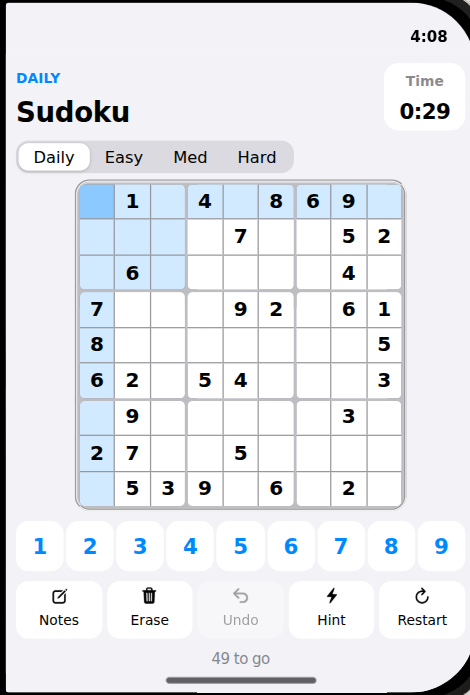
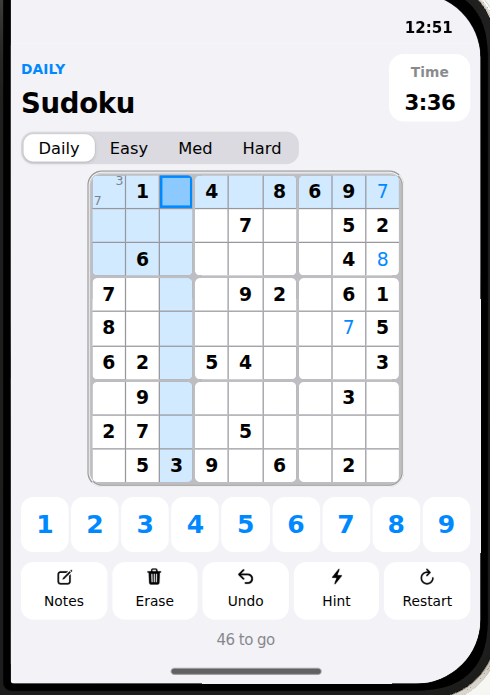
sudoku: sharpen board hierarchy, motion and destructive confirm
- Board states: selected cell gets an inset link ring plus peer wash,
  given/entered/conflict colours stay token-based, notes digits scale
  with the cell and stay legible on cover
- Motion: wrong entries take one small shake, placed digits pop in,
  the solved card enters with a transform-only scale rise and a delayed
  badge (no opacity over glass), and exits through usePresence. Every
  keyframe is disabled under prefers-reduced-motion while colour
  feedback stays immediate
- Controls: pad keys hit 44 pt on cover, pencil mode tints the whole
  pad so the next-tap semantics are obvious, tools group press +
  colour transitions, restart/new confirm through a two-tap armed
  'Sure?' state that any real move disarms
- Fix: deal() only resumes live slots, so the solved card's 'New game'
  and the New tool actually deal a fresh puzzle instead of reviving
  the finished board
- Layout: home-bar clearance on both displays, refreshed submission
  screenshots

diff --git a/community-apps/sudoku/main.tsx b/community-apps/sudoku/main.tsx
@@ -1,6 +1,6 @@
 import { os } from '@doan-labs/duo-sdk'
 import { useKV } from '@doan-labs/duo-sdk/react.ts'
-import { Button, Segmented, Sym, type SymProps, useDisplay, useWide } from '@doan-labs/duo-uikit'
+import { Button, Segmented, Sym, type SymProps, useDisplay, usePresence, useWide } from '@doan-labs/duo-uikit'
 import { dark, light } from '@doan-labs/duo-uikit/styles.ts'
 import * as stylex from '@stylexjs/stylex'
 import { useCallback, useEffect, useMemo, useRef, useState } from 'react'
@@ -70,6 +70,10 @@ function Sudoku() {
   const [darkMode, setDarkMode] = useState(false)
   const [note, setNote] = useState<string | null>(null)
   const [now, setNow] = useState(() => Date.now())
+  // Armed is the two-tap confirmation for destructive tools: the first tap
+  // turns the button red and asks again; the second runs it.
+  const [armed, setArmed] = useState<string | null>(null)
+  const armTimer = useRef<ReturnType<typeof setTimeout> | null>(null)
 
   const lastSeen = useRef<string | null>(null)
   const storageLanded = useRef(false)
@@ -89,16 +93,16 @@ function Sudoku() {
     const top = wide ? 16 : 8
     const header = wide ? 58 : 78 // the cover keeps its own mode row under the title
     const status = wide ? 22 : 18
-    const bottom = wide ? 20 : 16
+    const bottom = 24 // the home bar owns the bottom edge on both displays
     const gaps = 24
     const railW = wide ? 324 : 0 // rail width plus the stage gap
-    const railH = wide ? 0 : 102 // cover pad row plus tools row plus stage gap
+    const railH = wide ? 0 : 106 // cover pad row plus tools row plus stage gap
     const w = view.width || (wide ? 778 : 387)
     const h = view.height || (wide ? 503 : 563)
     const free = h - top - header - status - bottom - gaps - railH
     const board = Math.max(190, Math.floor(Math.min(free, w - padX - railW)))
     const cell = board / 9
-    return { board, digit: Math.round(cell * 0.55), note: Math.max(8, Math.round(cell * 0.27)) }
+    return { board, digit: Math.round(cell * 0.55), note: Math.max(10, Math.round(cell * 0.32)) }
   }, [view.width, view.height, wide])
 
   // Why storage seeds once: the durable slots are the record of earlier games,
@@ -168,6 +172,9 @@ function Sudoku() {
     setSlots(slotsNext)
     liveRef.current.set(JSON.stringify(wire))
     savedRef.current.set(packSaved(slotsNext, statsNext, wire.mode))
+    // Any real move disarms a pending destructive confirm.
+    if (armTimer.current) window.clearTimeout(armTimer.current)
+    setArmed(null)
   }, [])
 
   /**
@@ -180,7 +187,9 @@ function Sudoku() {
       const cur = latest.current
       const stash = cur.game ? { ...cur.slots, [cur.game.mode]: cur.game } : { ...cur.slots }
       const slot = mode === 'daily' ? (stash.daily?.day === DAY ? stash.daily : undefined) : stash[mode]
-      if (slot) {
+      // Only a live slot is worth resuming: a finished board in the slot would
+      // just reappear already solved, so it falls through to a fresh deal.
+      if (slot && !slot.endedAt) {
         setSlots(stash)
         commit(slot)
       } else {
@@ -223,6 +232,10 @@ function Sudoku() {
     [commit]
   )
 
+  // Keeps the solved card mounted through its short exit animation. The hook
+  // stays above the loading early-return like every other hook.
+  const solvedCard = usePresence(!!game && isSolved(game), 200)
+
   // Why keys move the selection instead of typing blind: hardware arrow keys
   // navigate the board, digits play or jot against the selected cell.
   const pressRef = useRef(press)
@@ -255,11 +268,9 @@ function Sudoku() {
 
   if (!game) {
     return (
-      <main
-        ref={rootRef}
-        {...stylex.props(darkMode ? dark : light, styles.root, !wide && styles.rootCover)}
-        aria-busy="true"
-      />
+      <main ref={rootRef} {...stylex.props(darkMode ? dark : light, styles.root)} aria-busy="true">
+        <div {...stylex.props(styles.loading)}>Sudoku</div>
+      </main>
     )
   }
 
@@ -290,9 +301,24 @@ function Sudoku() {
       ? 'Loading saved progress...'
       : saved.status === 'error'
         ? 'Progress may not save offline'
-        : solved
-          ? `Solved in ${formatTime(elapsedMs(game, now))}${game.hints ? `, ${game.hints} hints` : ''}`
-          : `${left} to go${game.pencil ? ' - pencil on' : ''}${clashes.size ? ' - conflict' : ''}`
+        : armed
+          ? 'Tap again to confirm'
+          : solved
+            ? `Solved in ${formatTime(elapsedMs(game, now))}${game.hints ? `, ${game.hints} hints` : ''}`
+            : `${left} to go${game.pencil ? ' - pencil on' : ''}${clashes.size ? ' - conflict' : ''}`
+
+  /** First tap arms a destructive tool; the second within a few seconds runs it. */
+  const arm = (key: string, run: () => void) => {
+    if (armed === key) {
+      if (armTimer.current) window.clearTimeout(armTimer.current)
+      setArmed(null)
+      run()
+      return
+    }
+    if (armTimer.current) window.clearTimeout(armTimer.current)
+    setArmed(key)
+    armTimer.current = window.setTimeout(() => setArmed(null), 3000)
+  }
 
   type Tool = {
     key: string
@@ -301,17 +327,34 @@ function Sudoku() {
     disabled: boolean
     on: () => void
     active?: boolean
+    danger?: boolean
   }
   const tools: Tool[] = [
     { key: 'notes', label: 'Notes', icon: 'compose', disabled: solved, on: () => press('PENCIL'), active: game.pencil },
     { key: 'erase', label: 'Erase', icon: 'trash', disabled: solved, on: () => press('ERASE') },
     { key: 'undo', label: 'Undo', icon: 'undo', disabled: !game.undo.length, on: () => press('UNDO') },
     { key: 'hint', label: 'Hint', icon: 'bolt', disabled: solved, on: hint },
-    { key: 'restart', label: 'Restart', icon: 'reload', disabled: false, on: () => commit(restart(game)) },
+    {
+      key: 'restart',
+      label: 'Restart',
+      icon: 'reload',
+      disabled: false,
+      danger: true,
+      on: () => arm('restart', () => commit(restart(game)))
+    },
     // Daily is one fixed puzzle a day: "new" there is restart, so it drops out.
     ...(game.mode === 'daily'
       ? []
-      : [{ key: 'new', label: 'New', icon: 'plus' as const, disabled: false, on: () => deal(game.mode) }])
+      : [
+          {
+            key: 'new',
+            label: 'New',
+            icon: 'plus' as const,
+            disabled: false,
+            danger: true,
+            on: () => arm('new', () => commit(newGame(ME, game.mode), true))
+          }
+        ])
   ]
 
   return (
@@ -408,8 +451,8 @@ function Sudoku() {
               </div>
             ))}
           </fieldset>
-          {solved && (
-            <div {...stylex.props(styles.solvedCard)} role="status">
+          {solvedCard.mounted && (
+            <div {...stylex.props(styles.solvedCard, solvedCard.closing && styles.solvedCardOut)} role="status">
               <div {...stylex.props(styles.solvedInner)}>
                 <span {...stylex.props(styles.solvedBadge)}>
                   <Sym name="check" size={26} />
@@ -426,7 +469,7 @@ function Sudoku() {
                       Play an easy game
                     </Button>
                   ) : (
-                    <Button variant="tinted" onClick={() => deal(game.mode)}>
+                    <Button variant="tinted" onClick={() => commit(newGame(ME, game.mode), true)}>
                       New {MODE_LABEL[game.mode]} game
                     </Button>
                   )}
@@ -447,7 +490,7 @@ function Sudoku() {
                   disabled={!leftD || solved}
                   aria-label={`Digit ${d}${leftD ? `, ${leftD} left` : ', complete'}`}
                   onClick={() => padTap(d)}
-                  {...stylex.props(styles.padKey, !wide && styles.padKeyCover)}
+                  {...stylex.props(styles.padKey, !wide && styles.padKeyCover, game.pencil && styles.padKeyPencil)}
                 >
                   {d}
                   <span {...stylex.props(styles.padLeft, !wide && styles.padKeyCoverLeft)}>{leftD}</span>
@@ -461,14 +504,19 @@ function Sudoku() {
               <button
                 key={t.key}
                 type="button"
-                aria-label={t.label}
-                aria-pressed={t.key === 'notes' ? game.pencil : undefined}
+                aria-label={armed === t.key ? `${t.label}? Tap again to confirm` : t.label}
+                aria-pressed={t.key === 'notes' ? game.pencil : armed === t.key ? true : undefined}
                 disabled={t.disabled}
                 onClick={t.on}
-                {...stylex.props(styles.tool, wide ? styles.toolWide : styles.toolCover, t.active && styles.toolActive)}
+                {...stylex.props(
+                  styles.tool,
+                  wide ? styles.toolWide : styles.toolCover,
+                  t.active && styles.toolActive,
+                  armed === t.key && styles.toolArmed
+                )}
               >
                 <Sym name={t.icon} size={15} />
-                {t.label}
+                {armed === t.key ? 'Sure?' : t.label}
               </button>
             ))}
           </div>

diff --git a/community-apps/sudoku/styles.ts b/community-apps/sudoku/styles.ts
@@ -25,9 +25,29 @@ const cellIn = stylex.keyframes({
   to: { transform: 'scale(1)', opacity: 1 }
 })
 
-const bannerIn = stylex.keyframes({
-  from: { transform: 'translateY(-6px)', opacity: 0 },
-  to: { transform: 'translateY(0)', opacity: 1 }
+// Transform-only on the solved card: animating opacity over the glass blur
+// makes the card draw see-through while the animation runs (decision 18 trap).
+const cardIn = stylex.keyframes({
+  from: { transform: 'scale(.94) translateY(10px)' },
+  to: { transform: 'scale(1) translateY(0)' }
+})
+
+const cardOut = stylex.keyframes({
+  to: { transform: 'scale(.96) translateY(6px)', opacity: 0 }
+})
+
+const badgeIn = stylex.keyframes({
+  from: { transform: 'scale(.3)' },
+  to: { transform: 'scale(1)' }
+})
+
+// A wrong entry gets one small shake: feedback that the digit is illegal,
+// without looping or stealing focus.
+const cellShake = stylex.keyframes({
+  '0%, 100%': { transform: 'translateX(0)' },
+  '25%': { transform: 'translateX(-2px)' },
+  '50%': { transform: 'translateX(2px)' },
+  '75%': { transform: 'translateX(-1px)' }
 })
 
 export const styles = stylex.create({
@@ -37,7 +57,7 @@ export const styles = stylex.create({
     flexDirection: 'column',
     gap: space.md,
     paddingTop: space.lg,
-    paddingBottom: space.xl,
+    paddingBottom: space.xxl,
     paddingInline: space.xl,
     color: app.fg,
     backgroundColor: app.bg,
@@ -46,7 +66,8 @@ export const styles = stylex.create({
     overflow: 'hidden',
     userSelect: 'none'
   },
-  rootCover: { gap: space.sm, paddingTop: space.sm, paddingBottom: space.lg, paddingInline: space.sm },
+  // The home bar owns the bottom 22 px; cover content clears it entirely.
+  rootCover: { gap: space.sm, paddingTop: space.sm, paddingBottom: space.xxl, paddingInline: space.sm },
   header: { display: 'flex', alignItems: 'flex-end', justifyContent: 'space-between', gap: space.md, flexShrink: 0 },
   brand: { display: 'flex', flexDirection: 'column', gap: space.xxs },
   kicker: {
@@ -136,21 +157,26 @@ export const styles = stylex.create({
     fontFamily: fonts.rounded,
     fontWeight: weight.regular,
     cursor: 'pointer',
-    transitionProperty: 'background-color',
-    transitionDuration: motion.pressDuration,
+    // shared.select's rhythm: state colours ease instead of snapping.
+    transitionProperty: 'background-color, box-shadow',
+    transitionDuration: '.22s',
     transitionTimingFunction: easing.out
   },
   cellRelated: { backgroundColor: `color-mix(in srgb, ${app.surface} 82%, ${app.link})` },
   cellSame: { backgroundColor: `color-mix(in srgb, ${app.surface} 72%, ${app.link})` },
   cellSelected: {
     backgroundColor: `color-mix(in srgb, ${app.surface} 55%, ${app.link})`,
+    boxShadow: `inset 0 0 0 2px ${app.link}`,
     zIndex: 1
   },
   cellGiven: { color: app.fg, fontWeight: weight.semibold },
   cellEntry: { color: app.link },
   cellWrong: {
     color: colors.red,
-    backgroundColor: `color-mix(in srgb, ${app.surface} 80%, ${colors.red})`
+    backgroundColor: `color-mix(in srgb, ${app.surface} 80%, ${colors.red})`,
+    animationName: { default: cellShake, [reduce]: 'none' },
+    animationDuration: '.3s',
+    animationTimingFunction: easing.out
   },
   cellGivenWrong: { color: colors.red },
   digit: {
@@ -202,7 +228,7 @@ export const styles = stylex.create({
     backgroundColor: app.surface,
     color: app.link,
     fontFamily: fonts.rounded,
-    fontSize: typeScale.headline,
+    fontSize: typeScale.title3,
     fontWeight: weight.semibold,
     cursor: 'pointer',
     boxShadow: shadow.rim,
@@ -212,7 +238,12 @@ export const styles = stylex.create({
     transform: { default: 'none', ':active': motion.press },
     opacity: { default: 1, ':disabled': 0.32 }
   },
-  padKeyCover: { height: 40, fontSize: typeScale.headline },
+  padKeyCover: { height: 44 },
+  padKeyPencil: {
+    // Pencil mode must be obvious on the pad itself, not just on the toggle:
+    // the next tap jots a note instead of committing a digit.
+    backgroundColor: `color-mix(in srgb, ${app.surface} 70%, ${app.link})`
+  },
   padLeft: { fontSize: typeScale.caption2, fontFamily: fonts.system, fontWeight: weight.medium, color: app.label2 },
   padKeyCoverLeft: { display: 'none' },
   tools: { display: 'flex', flexWrap: 'wrap', gap: space.xs },
@@ -236,14 +267,20 @@ export const styles = stylex.create({
     boxShadow: shadow.rim,
     flex: '1 1 0',
     minWidth: 0,
-    transitionProperty: 'transform',
-    transitionDuration: motion.pressDuration,
+    transitionProperty: 'transform, color, background-color, box-shadow',
+    transitionDuration: `${motion.pressDuration}, .2s, .2s, .2s`,
     transitionTimingFunction: easing.out,
     transform: { default: 'none', ':active': motion.press },
     opacity: { default: 1, ':disabled': 0.35 }
   },
   toolCover: { height: 46 },
   toolActive: { color: app.link, boxShadow: `${shadow.rim},inset 0 0 0 1.5px ${app.link}` },
+  // An armed destructive action asks once more, in red like iOS destructive
+  // controls, before it runs.
+  toolArmed: {
+    color: colors.red,
+    boxShadow: `${shadow.rim},inset 0 0 0 1.5px ${colors.red}`
+  },
   stats: { display: 'grid', gridTemplateColumns: 'repeat(4, 1fr)', gap: space.xs },
   statRow: {
     display: 'flex',
@@ -276,20 +313,29 @@ export const styles = stylex.create({
     minHeight: leading.footnote
   },
   statusCover: { fontSize: typeScale.caption1 },
+  // Decision 18's glass recipe: blur + tint + rim + float, xl corner on the
+  // card floating over the board, motion on transform only.
   solvedCard: {
     position: 'absolute',
     inset: space.xxs,
     display: 'grid',
     placeItems: 'center',
-    borderRadius: radius.md,
+    borderRadius: radius.xl,
     backgroundColor: `color-mix(in srgb, ${app.surface} 72%, transparent)`,
     backdropFilter: glass.blur,
     WebkitBackdropFilter: glass.blur,
+    boxShadow: `${shadow.rim},${shadow.float}`,
     zIndex: 2,
-    animationName: { default: bannerIn, [reduce]: 'none' },
-    animationDuration: '.3s',
+    animationName: { default: cardIn, [reduce]: 'none' },
+    animationDuration: '.34s',
     animationTimingFunction: easing.pop,
     animationFillMode: 'both'
+  },
+  solvedCardOut: {
+    animationName: { default: cardOut, [reduce]: 'none' },
+    animationDuration: '.2s',
+    animationTimingFunction: easing.out,
+    animationFillMode: 'forwards'
   },
   solvedInner: { display: 'flex', flexDirection: 'column', alignItems: 'center', gap: space.sm, padding: space.lg },
   solvedBadge: {
@@ -299,19 +345,23 @@ export const styles = stylex.create({
     height: 52,
     borderRadius: radius.circle,
     backgroundColor: `color-mix(in srgb, ${colors.green} 22%, transparent)`,
-    color: colors.green
+    color: colors.green,
+    animationName: { default: badgeIn, [reduce]: 'none' },
+    animationDuration: '.4s',
+    animationDelay: '.12s',
+    animationTimingFunction: easing.pop,
+    animationFillMode: 'backwards'
   },
   solvedTitle: { marginBlock: 0, fontFamily: fonts.rounded, fontSize: typeScale.title2, fontWeight: weight.bold },
   solvedSub: { color: app.label2, fontSize: typeScale.footnote },
   solvedActions: { display: 'flex', gap: space.sm },
-  hint: {
-    marginBlock: 0,
-    color: app.label2,
-    fontSize: typeScale.caption1,
-    textAlign: 'center',
-    animationName: { default: bannerIn, [reduce]: 'none' },
-    animationDuration: '.3s',
-    animationTimingFunction: easing.pop,
-    animationFillMode: 'both'
+  loading: {
+    height: '100%',
+    display: 'grid',
+    placeItems: 'center',
+    color: app.label3,
+    fontFamily: fonts.rounded,
+    fontSize: typeScale.title3,
+    fontWeight: weight.semibold
   }
 })
